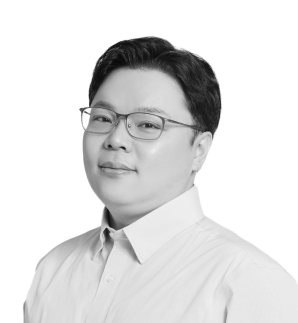
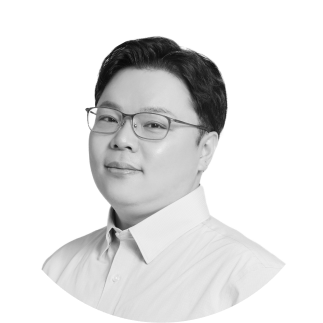
apply right property after QC/QA

diff --git a/components/Section7/Section7.jsx b/components/Section7/Section7.jsx
@@ -4,141 +4,146 @@ import { motion, useAnimation, useScroll } from "framer-motion";
 
 function Section7() {
   return (
-    <div className="relative w-full h-full bg-gradient-to-b from-[#FF9900] via-transparent to-black mx-auto flex flex-col items-center overflow-hidden">
-      <div className="w-[425px] -sm:w-full  leading-normal font-bold text-center mt-[86px] mb-[106px] text-white text-5xl -sm:text-xl font-rokaf">
-        대기업, 현직 개발자분들의특강 진행
-      </div>
-      {/* motion animation */}
-      <div className="w-full h-[342.48px] -sm:h-auto relative flex mx-auto -sm:px-2 -md:px-4 mb-8 justify-center gap-4 md-bw:gap-16">
-        <motion.div
-          className="w-[342.48px] h-[342.48px] -sm:w-auto -sm:min-w-[130px] -sm:h-[130px] -md:w-[220px] -md:h-[220px] -md:min-w-[220px] self-center"
-          initial={{ opacity: 0, x: -100 }}
-          whileInView={{ opacity: 1, x: 0 }}
-          transition={{
-            duration: 0.2,
-            type: "tween",
-            bounce: 0.25,
-            delay: 0.05,
-          }}
-        >
-          <img
-            className="w-auto h-auto -sm:w-[130px] -sm:h-[130px] rounded-full absolute -md:w-[220px] -md:h-[220px] "
-            src="/section7/instructor-1-section7.png"
-          />
-        </motion.div>
-        <div className="w-[333px] -sm:w-auto h-auto  text-center flex flex-col justify-center ">
-          <div className="w-auto h-auto relative flex flex-col  gap-y-2 -sm:gap-y-1 font-appleR00">
-            <p className="text-[#F90] font-appleB00 text-3xl -sm:text-base -sm:pl-16 pl-24">
-              커리어로드맵 설계
-            </p>
-            <div className="h-[6px]  sm-bw:h-[11px] ">
-              <img
-                className="w-16 -sm:w-12 md-bw:w-24 h-auto absolute "
-                src="/section7/line-section7.png"
-                alt=""
-              />
-            </div>
-            <p className="text-[#ADADAD] leading-[32px] sm-bw:leading-[22px] -sm:leading-6 text-[22px] -sm:text-[14px] text-center pl-24 -sm:pl-16">
-              라인 백엔드 개발자 <br />
-              조성빈님 특강
-            </p>
-          </div>
+    <div className="w-full min-h-screen  bg-gradient-custom mx-auto flex flex-col items-center overflow-hidden">
+        <div className="w-full  h-full ">
+          <p className="w-full  -sm:w-full  leading-normal font-bold text-center mt-[86px] mb-[106px] text-white text-5xl -sm:text-xl font-rokaf">
+            대기업, 현직 개발자분들의 <br />
+            특강 진행
+          </p>
         </div>
-      </div>
+        <div className=" w-full h-[90%]  flex flex-col justify-center items-center">
+          {/* motion animation */}
+          <div className="w-full h-[342.48px] -sm:h-auto relative flex mx-auto -sm:px-2 -md:px-4 mb-8 justify-center gap-4 md-bw:gap-16">
+            <motion.div
+              className="w-[342.48px] h-[342.48px] -sm:w-auto -sm:min-w-[130px] -sm:h-[130px] -md:w-[220px] -md:h-[220px] -md:min-w-[220px] self-center"
+              initial={{ opacity: 0, x: -100 }}
+              whileInView={{ opacity: 1, x: 0 }}
+              transition={{
+                duration: 0.2,
+                type: "tween",
+                bounce: 0.25,
+                delay: 0.05,
+              }}
+            >
+              <img
+                className="w-auto h-auto -sm:w-[130px] -sm:h-[130px] rounded-full absolute -md:w-[220px] -md:h-[220px] "
+                src="/section7/instructor-1-section7.png"
+              />
+            </motion.div>
+            <div className="w-[333px] -sm:w-auto h-auto  text-center flex flex-col justify-center ">
+              <div className="w-auto h-auto relative flex flex-col  gap-y-2 -sm:gap-y-1 font-appleR00">
+                <p className="text-[#F90] font-appleB00 text-3xl -sm:text-base -sm:pl-16 pl-24">
+                  커리어로드맵 설계
+                </p>
+                <div className="h-[6px]  sm-bw:h-[11px] ">
+                  <img
+                    className="w-16 -sm:w-12 md-bw:w-24 h-auto absolute "
+                    src="/section7/line-section7.png"
+                    alt=""
+                  />
+                </div>
+                <p className="text-[#ADADAD] leading-[32px] sm-bw:leading-[22px] -sm:leading-6 text-[22px] -sm:text-[14px] text-center pl-24 -sm:pl-16">
+                  라인 백엔드 개발자 <br />
+                  조성빈님 특강
+                </p>
+              </div>
+            </div>
+          </div>
 
-      {/* section 2 */}
-      <div className="w-full h-[342.48px] flex-shrink-0  -sm:h-auto -sm:px-2 -md:px-0 relative flex mx-auto -sm:mb-8 justify-center gap-4 md-bw:gap-16">
-        <div className="w-[333px] -sm:w-auto h-auto text-center flex flex-col justify-center">
-          <div className="w-auto h-auto relative flex flex-col gap-y-2 -sm:gap-y-1 font-appleR00">
-            <p className="text-[#F90] font-appleB00 text-3xl -sm:text-base pr-24 -sm:pr-16 ">
-              시대가 원하는 개발자
-            </p>
-            <div className="h-[6px] sm-bw:h-[11px] ">
-              <img
-                className="w-16 md-bw:w-24 -sm:w-12 h-auto absolute right-0 "
-                src="/section7/line-right-section7.png"
-                alt=""
-              />
+          {/* section 2 */}
+          <div className="w-full h-[342.48px] flex-shrink-0  -sm:h-auto -sm:px-2 -md:px-0 relative flex mx-auto -sm:mb-8 justify-center gap-4 md-bw:gap-16">
+            <div className="w-[333px] -sm:w-auto h-auto text-center flex flex-col justify-center">
+              <div className="w-auto h-auto relative flex flex-col gap-y-2 -sm:gap-y-1 font-appleR00">
+                <p className="text-[#F90] font-appleB00 text-3xl -sm:text-base pr-24 -sm:pr-16 ">
+                  시대가 원하는 개발자
+                </p>
+                <div className="h-[6px] sm-bw:h-[11px] ">
+                  <img
+                    className="w-16 md-bw:w-24 -sm:w-12 h-auto absolute right-0 "
+                    src="/section7/line-right-section7.png"
+                    alt=""
+                  />
+                </div>
+                <p className="text-[#ADADAD] leading-[32px] sm-bw:leading-[22px] -sm:leading-6 text-[22px] -sm:text-[14px] not-italic font-normal text-center pr-24 -sm:pr-16">
+                  열혈강의 저자 <br />
+                  강요천 개발자님 특강
+                </p>
+              </div>
             </div>
-            <p className="text-[#ADADAD] leading-[32px] sm-bw:leading-[22px] -sm:leading-6 text-[22px] -sm:text-[14px] not-italic font-normal text-center pr-24 -sm:pr-16">
-              열혈강의 저자 <br />
-              강요천 개발자님 특강
-            </p>
-          </div>
-        </div>
-        <motion.div
-          className="w-[342.48px] h-[342.48px] -sm:h-[130px] -sm:w-[130px] -md:w-[220px] -md:h-[220px] -md:min-w-[220px] -sm:min-w-[130px] self-center "
-          initial={{ opacity: 0, x: 100 }}
-          whileInView={{ opacity: 1, x: 0 }}
-          transition={{
-            duration: 0.2,
-            type: "tween",
-            bounce: 0.25,
-            delay: 0.05,
-          }}
-        >
-          <img
-            className="w-auto h-auto -sm:w-[130px] -sm:h-[130px] -md:w-[220px] -md:h-[220px] rounded-full  absolute"
-            src="/section7/instructor-2-s7.png"
-          />
-        </motion.div>
-      </div>
-      {/* section 3 */}
-      <div className="w-full h-[342.48px] -sm:h-auto relative flex mx-auto -sm:px-2  mb-24 justify-center gap-4 md-bw:gap-16">
-        <motion.div
-          className="w-[342.48px] h-[342.48px] -sm:w-auto -sm:h-[130px] -sm:min-w-[130px] -md:w-[220px] -md:h-[220px] -md:min-w-[220px] self-center"
-          initial={{ opacity: 0, x: -100 }}
-          whileInView={{ opacity: 1, x: 0 }}
-          transition={{
-            duration: 0.2,
-            type: "tween",
-            bounce: 0.25,
-            delay: 0.05,
-          }}
-        >
-          <img
-            className="w-auto h-auto -sm:w-[130px] -sm:h-[130px] rounded-full absolute -md:w-[220px] -md:h-[220px] "
-            src="/section7/instructor-3-s7.png"
-          />
-        </motion.div>
-        <div className="w-[333px] -sm:w-auto h-auto  text-center flex flex-col justify-center ">
-          <div className="w-auto h-auto relative flex flex-col  gap-y-2 -sm:gap-y-1 font-appleR00">
-            <p className="text-[#F90] font-appleB00 text-3xl -sm:text-base pl-24 -sm:pl-16">
-              나를 매력적인 <br /> 개발자로 만드는 법
-            </p>
-            <div className="h-[6px]  sm-bw:h-[11px] ">
+            <motion.div
+              className="w-[342.48px] h-[342.48px] -sm:h-[130px] -sm:w-[130px] -md:w-[220px] -md:h-[220px] -md:min-w-[220px] -sm:min-w-[130px] self-center "
+              initial={{ opacity: 0, x: 100 }}
+              whileInView={{ opacity: 1, x: 0 }}
+              transition={{
+                duration: 0.2,
+                type: "tween",
+                bounce: 0.25,
+                delay: 0.05,
+              }}
+            >
               <img
-                className="w-16 -sm:w-12 md-bw:w-24 h-auto absolute "
-                src="/section7/line-section7.png"
-                alt=""
+                className="w-auto h-auto -sm:w-[130px] -sm:h-[130px] -md:w-[220px] -md:h-[220px] rounded-full  absolute"
+                src="/section7/instructor-2-s7.png"
               />
-            </div>
-            <p className="text-[#ADADAD] text-[22px] -sm:text-[14px] leading-[32px] sm-bw:leading-[24px] -sm:leading-6 text-center pl-24 -sm:pl-16">
-              Lunit <br /> 머신러닝 엔지니어 김동이님
-            </p>
+            </motion.div>
           </div>
-        </div>
-      </div>
+          {/* section 3 */}
+          <div className="w-full h-[342.48px] -sm:h-auto relative flex mx-auto -sm:px-2  mb-24 justify-center gap-4 md-bw:gap-16">
+            <motion.div
+              className="w-[342.48px] h-[342.48px] -sm:w-auto -sm:h-[130px] -sm:min-w-[130px] -md:w-[220px] -md:h-[220px] -md:min-w-[220px] self-center"
+              initial={{ opacity: 0, x: -100 }}
+              whileInView={{ opacity: 1, x: 0 }}
+              transition={{
+                duration: 0.2,
+                type: "tween",
+                bounce: 0.25,
+                delay: 0.05,
+              }}
+            >
+              <img
+                className="w-auto h-auto -sm:w-[130px] -sm:h-[130px] rounded-full absolute -md:w-[220px] -md:h-[220px] "
+                src="/section7/instructor-3-s7.png"
+              />
+            </motion.div>
+            <div className="w-[333px] -sm:w-auto h-auto  text-center flex flex-col justify-center ">
+              <div className="w-auto h-auto relative flex flex-col  gap-y-2 -sm:gap-y-1 font-appleR00">
+                <p className="text-[#F90] font-appleB00 text-3xl -sm:text-base pl-24 -sm:pl-16">
+                  나를 매력적인 <br /> 개발자로 만드는 법
+                </p>
+                <div className="h-[6px]  sm-bw:h-[11px] ">
+                  <img
+                    className="w-16 -sm:w-12 md-bw:w-24 h-auto absolute "
+                    src="/section7/line-section7.png"
+                    alt=""
+                  />
+                </div>
+                <p className="text-[#ADADAD] text-[22px] -sm:text-[14px] leading-[32px] sm-bw:leading-[24px] -sm:leading-6 text-center pl-24 -sm:pl-16">
+                  Lunit <br /> 머신러닝 엔지니어 김동이님
+                </p>
+              </div>
+            </div>
+          </div>
 
-      <button className="w-[500px] -sm:w-auto -md:w-[300px] h-[76px] -sm:h-[42px] -md:h-[50px] mb-72  bg-[#FF9900] justify-center shrink-0 flex flex-row gap-8  items-center rounded-full -sm:px-8">
-        <p className="text-white text-center text-3xl -sm:text-base -md:text-lg font-normal not-italic font-appleR00">
-          특강 브이로그 보러가기
-        </p>
-        <svg
-          xmlns="http://www.w3.org/2000/svg"
-          width="23"
-          height="27"
-          viewBox="0 0 23 27"
-          fill="none"
-          className="-sm:w-[16px] -sm:h-[16px] -md:w-[18px] -md:h-[18px]"
-        >
-          <path
-            d="M23 13.5L0.500001 26.0574L0.500002 0.942631L23 13.5Z"
-            fill="white"
-          />
-        </svg>
-      </button>
-    </div>
+          <button className="w-[500px] -sm:w-auto -md:w-[300px] h-[76px] -sm:h-[42px] -md:h-[50px] mb-72  bg-[#FF9900] justify-center shrink-0 flex flex-row gap-8  items-center rounded-full -sm:px-8">
+            <p className="text-white text-center text-3xl -sm:text-base -md:text-lg font-normal not-italic font-appleR00">
+              특강 브이로그 보러가기
+            </p>
+            <svg
+              xmlns="http://www.w3.org/2000/svg"
+              width="23"
+              height="27"
+              viewBox="0 0 23 27"
+              fill="none"
+              className="-sm:w-[16px] -sm:h-[16px] -md:w-[18px] -md:h-[18px]"
+            >
+              <path
+                d="M23 13.5L0.500001 26.0574L0.500002 0.942631L23 13.5Z"
+                fill="white"
+              />
+            </svg>
+          </button>
+        </div>
+      </div>
   );
 }
 

diff --git a/components/Section4/Section4.jsx b/components/Section4/Section4.jsx
@@ -12,13 +12,17 @@ function Section4() {
 
   return (
     <div className="container mx-auto my-96">
-      <div className="text-center text-[50px] -sm:text-[28px] font-rokaf mb-28">
-        <p className=" font-bold text-white">강사진 소개</p>
+      <div className="text-center  -sm:text-[28px] font-rokaf mb-28">
+        <p className=" font-bold text-white text-[50px]">ncamp</p>
+        <p className="text-[#FFFFFF80] text-[25px] -sm:text-xl">
+          (비트캠프 강남센터)
+        </p>
+        <p className=" font-bold text-white text-[50px]">강사진 소개</p>
       </div>
       <div ref={ref} className=" shrink-0 mx-auto">
         <div className="w-[692px] -sm:w-[330px] -md:w-auto container -sm:p-0 grid md:grid-cols-2 md:grid  gap-24 -sm:gap-x-0 -sm:gap-y-4 -md:gap-y-4 -md:justify-center h-auto mx-auto">
           <div className="w-[322.76px] -sm:w-[330px] -md:w-[90vw] -sm:gap-9 relative flex flex-col -md:flex-row -sm:h-[120px] -md:h-[220px] mx-auto -sm:col-span-2 -md:col-span-2 -md:rounded-full -md:border-[#FF9900] -md:border">
-            <div className="w-[120px] h-[322.76px] -md:h-auto mb-6 -md:order-last">
+            <div className="w-full h-[322.76px] -md:h-auto mb-6 -md:order-last">
               <span
                 className="opacity-0 translate-x-28 block"
                 style={{
@@ -27,7 +31,7 @@ function Section4() {
                   transition: "0.2s",
                 }}
               ></span>
-              <div className="w-[322.76px] h-[322.76px] -sm:w-[120px] -sm:h-[120px] -md:w-[220px] -md:h-[220px] -md:order-last left-0 -md:left-auto -md:right-0 top-0 absolute bg-amber-500 rounded-full" />
+              <div className="w-[322.76px] h-[322.76px] -sm:w-[120px] -sm:h-[120px] -md:w-[220px] -md:h-[220px] -md:order-last left-0 -md:left-auto -md:right-0 top-0 absolute bg-[#FF9900] rounded-full" />
               <motion.img
                 className="w-[322.76px] h-[322.76px] -sm:w-[120px] -sm:h-[120px] -md:w-[220px] -md:h-[220px] -md:right-0 top-0 absolute rounded-full"
                 src="/instructor/instructor-1.png"

diff --git a/components/Section6/Section6.jsx b/components/Section6/Section6.jsx
@@ -31,7 +31,7 @@ function Section6() {
         ></span>
         <div className="w-[736px] h-[322.76px] -md:w-auto -md:h-auto  left-0  absolute  rounded-full" />
         <motion.img
-          className="w-[736px] h-[322.76px] -md:w-auto -md:h-auto  "
+          className="w-[736px] h-[322.76px] -md:w-auto -md:h-auto  border-y-[1px] border-y-white"
           src="/section6/pic1-section6.png"
           variants={boxVariant}
           initial="initial"
@@ -87,8 +87,8 @@ function Section6() {
               ></Image>
             </div>
             <div className="w-auto text-xl leading-[30px] font-appleR00 -sm:text-base font-normal not-italic text-[#ADADAD]">
-                스터디를 통하여 동료들과 협업하는 방법을 조금씩 배우며 실무
-                경험을 쌓아요.
+              스터디를 통하여 동료들과 협업하는 방법을 조금씩 배우며 실무 경험을
+              쌓아요.
             </div>
           </div>
         </div>

diff --git a/tailwind.config.js b/tailwind.config.js
@@ -92,7 +92,7 @@ module.exports = {
         rokaf: ["RokafSans", "sans-serif"],
         appleB00: ["AppleB00", "sans-serif"],
         appleEB00: ["AppleEB00", "sans-serif"],
-        appleM00: ["AppleM00", "sans-serif"]
+        appleM00: ["AppleM00", "sans-serif"],
       },
       fontSize: {
         xss: ["8px", "9.5px"],
@@ -100,8 +100,11 @@ module.exports = {
         subtitle: ["25px", "35px"],
         step: ["20px", "28px"],
         description: ["20px", "35px"],
-
       },
+      backgroundImage: (theme) => ({
+        "gradient-custom":
+          "linear-gradient(to bottom, #FF9900 0%, rgba(0,0,0,1) 20%)",
+      }),
     },
   },
   plugins: [require("tailwindcss-animate")],
